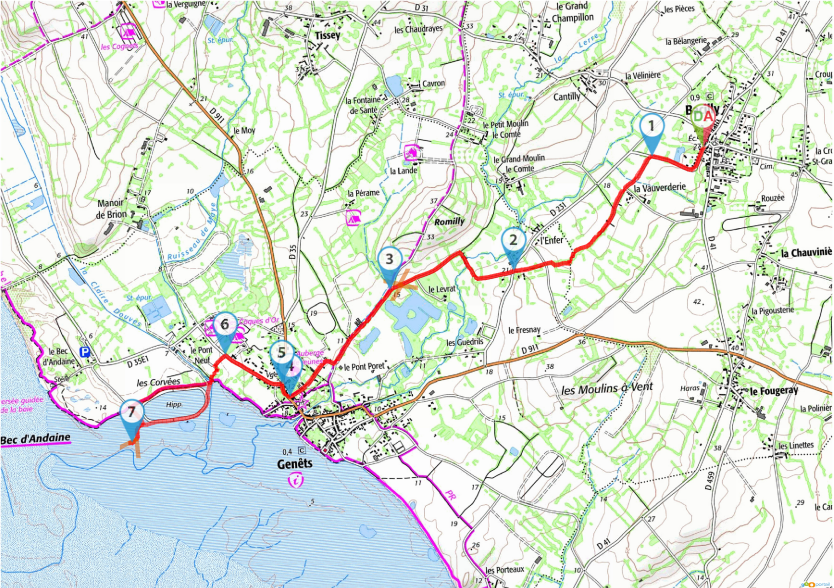
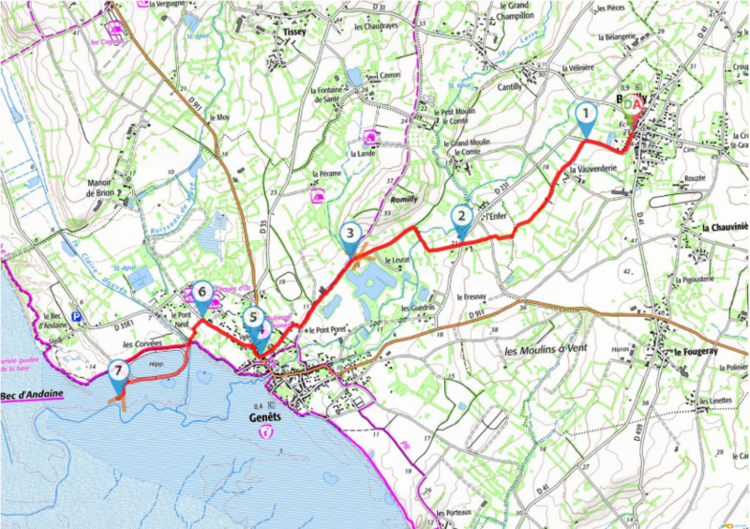
MODIF: Modification des cartes pour la présentation des randos

Changed region(s): [[0.6133, 0.6352, 0.644, 0.6654], [0.46, 0.7864, 0.4907, 0.8166]]

diff --git a/src/styles/pages/activites/bon-plan.css b/src/styles/pages/activites/bon-plan.css
@@ -1,7 +1,20 @@
 .randonnee {
     display: flex;
     flex-direction: row;
-    gap: 122px;
+    gap: 22px;
+}
+
+.rando {
+    background-color: var(--navbar-background);
+    padding-right: 40px;
+    border-radius: 4px;
+    align-content: center;
+}
+.rando h5 {
+    margin-left: 40px;
+}
+.rando ul {
+    list-style: none;
 }
 
 @media (max-width: 768px) {

diff --git a/pages/activites/bon-plan.php b/pages/activites/bon-plan.php
@@ -1,5 +1,6 @@
 <?php
-include "./includes/components/navbar.php"; 
+include "./includes/components/navbar.php";
+include  './includes/components/modal.php';
 
 
 function tags($url)
@@ -166,7 +167,7 @@ function card_load($link_desc) {
 
     <p class="card__media-text"> Il existe aussi beaucoup d'activités autour du Mont Saint Michel, notamment des randonnées. Vous pourrez trouver ci dessous deux randonées ainsi que le site pour en savoir plus.</p>
     <div class="randonnee">
-        <div class="card__media-content">
+        <div class="rando">
             <h5>Le Grouin du Sud et le Prieuré Saint-Léonard</h5>
             <ul>
                 <li>
@@ -189,10 +190,10 @@ function card_load($link_desc) {
                         <b> Départ à Genêts - 50 - Manche</b>
                     </p>
                 </li>
-            <img src="<?= i('activites/carte_rando_1.png', 'medium') ?>" alt="">
+            <img class="imgs" src="<?= i('activites/carte_rando_1.png', 'small') ?>" alt="">
         </div>
 
-        <div class="card__media-content">
+        <div class="rando">
             <h5>De Bacilly au Bec d'Andaine par les sentiers ruraux</h5>
             <ul>
                 <li>
@@ -215,7 +216,7 @@ function card_load($link_desc) {
                         <b> Départ à Bacilly - 50 - Manche</b>
                     </p>
                 </li>
-            <img src="<?= i('activites/carte_rando_2.png', 'medium') ?>" alt="">
+            <img class="imgs" src="<?= i('activites/carte_rando_2.png', 'small') ?>" alt="">
         </div>
     </div>
     <p class="card__media-text"> Pour en savoir plus sur ces randonnées et en découvrir beaucoup d'autre, visitez le site: <a href="https://www.visorando.com/randonnee-le-mont-saint-michel.html">www.visorando.com/randonnee-le-mont-saint-michel.com</a></p>
